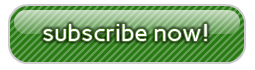
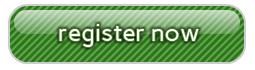
Feature #170 Multisite licensing

Changed region(s): [[0.1373, 0.2857, 0.8235, 0.7143]]

diff --git a/resources/javascripts/wl_register_widget.js b/resources/javascripts/wl_register_widget.js
@@ -180,11 +180,11 @@ WELOCALLY_RegisterWidget.prototype.getSubscriberInfo = function(siteKey, siteHom
 		  success : function(data, textStatus, jqXHR) {
 			 
 			  if(data != null && data.errors != null) {
-				_instance.setStatus(_instance._ajaxStatus,'Issue with publisher info. '+WELOCALLY.util.getErrorString(data.errors), 'wl_error', false);
+				_instance.setStatus(_instance._ajaxStatus,'<strong>Issue with publisher info.</strong> '+WELOCALLY.util.getErrorString(data.errors), 'wl_error', false);
 				_instance.setFormFields("DENIED", siteKey, siteHome, siteName, siteEmail, siteToken);
 				
 			  } else {	
-				  _instance.setStatus(_instance._ajaxStatus, JSON.stringify(data), 'wl_message', false);  
+				  _instance.setStatus(_instance._ajaxStatus, '<span class="wl_subscription_status">'+data.subscriptionStatus+'</span>', 'wl_message', false);  
 				  _instance.setFormFields(data.subscriptionStatus, data.site.key, siteHome, siteName, siteEmail, siteToken);
 				
 			  }	
@@ -207,6 +207,8 @@ WELOCALLY_RegisterWidget.prototype.setFormFields =
 				'<span class="options-text">We have assigned a key to you, but to use or basic service you must register. Go ahead, its easy. Just press the <strong>Register Now</strong> button and '+
 				'we will send you your secret token.</span><div style="clear:both"></div>');
 			jQuery(_instance._formArea).find('#wl_register_submit_action').html('Register Now');
+			jQuery(_instance._formArea).find('#wl_register_token_area').hide();
+			_instance.showFields();
 		} else if (status == 'REGISTERED') {
 			jQuery("#wl_register_status_area").html('<img width="75" hieght="75" style="float: left; margin-right:5px" class="align-right" src="'+_instance._cfg.imagePath+'/token1.png" alt="" title=""/>'+
 			'<span class="options-text">Great you are almost there! Now look the your inbox for the email address you gave us, and there should be an email with '+
@@ -214,6 +216,7 @@ WELOCALLY_RegisterWidget.prototype.setFormFields =
 			'<div style="clear:both"></div>');
 			jQuery(_instance._formArea).find('#wl_register_submit_action').html('Save Token');
 			jQuery(_instance._formArea).find('#wl_register_token_area').show();
+			_instance.showFields();
 		} else if (status == 'SUBSCRIBED') {
 			jQuery("#wl_register_status_area").html('<img width="75" hieght="75" style="float: left; margin-right:5px" class="align-right" '+
 					'src="'+_instance._cfg.imagePath+'/subscribed1.png" alt="" title=""/>'+
@@ -223,6 +226,7 @@ WELOCALLY_RegisterWidget.prototype.setFormFields =
 			'<div style="clear:both"></div>');
 			jQuery(_instance._formArea).find('#wl_register_submit_action').html('Refresh Registration');
 			jQuery(_instance._formArea).find('#wl_register_token_area').show();
+			_instance.showFields();
 		} else if (status == 'DENIED') {
 			jQuery("#wl_register_status_area").html('<img width="75" hieght="75" style="float: left; margin-right:5px" class="align-right" '+
 					'src="'+_instance._cfg.imagePath+'/denied1.png" alt="" title=""/>'+
@@ -320,11 +324,11 @@ WELOCALLY_RegisterWidget.prototype.registrationHandler = function(event, ui) {
 		  },		  
 		  success : function(data, textStatus, jqXHR) {
 			if(data != null && data.errors != null) {
-				_instance.setStatus(_instance._ajaxStatus,'Could register publisher. '+WELOCALLY.util.getErrorString(data.errors), 'wl_error', false);
+				_instance.setStatus(_instance._ajaxStatus,'<strong>Could register publisher.</strong> '+WELOCALLY.util.getErrorString(data.errors), 'wl_error', false);
 				var origData = _instance.getSiteInfo();
 				_instance.setFormFields("DENIED", origData.siteKey, origData.siteHome, origData.siteName, origData.siteEmail, origData.siteToken);
 			} else {
-				_instance.setStatus(_instance._ajaxStatus, JSON.stringify(data), 'wl_message', false);
+				_instance.setStatus(_instance._ajaxStatus, '<span class="wl_subscription_status">'+data.subscriptionStatus+'</span>', 'wl_message', false);
 				_instance.setFormFields(data.subscriptionStatus, data.site.key, data.site.home, data.site.name, data.site.email, data.site.token);
 				_instance._cfg.registeredCallback(data.site);				
 			}

diff --git a/resources/javascripts/wl_addplace_widget.js b/resources/javascripts/wl_addplace_widget.js
@@ -181,7 +181,7 @@ WELOCALLY_AddPlaceWidget.prototype.createForm = function() {
 	var formArea = jQuery('<div></div>');
 	
 	jQuery(formArea)
-	.append('<div class="wl_field_title">Enter the real name of the place, such as "The Red Snapper Grill"</div>');
+	.append('<div class="wl_field_description">Enter the real name of the place, such as "The Red Snapper Grill"</div>');
 	
 	this.placeNameField = jQuery('<div class="wl_field_area"><input type="text" name="placeName" class="wl_widget_field wl_addplace_name"/></div>');
 	jQuery(this.placeNameField).find('input').bind('change' , {form: formArea, _instance: this}, this.nameChangeHandler);  
@@ -190,7 +190,7 @@ WELOCALLY_AddPlaceWidget.prototype.createForm = function() {
 	
 	var locFieldArea = jQuery('<div class="wl_addplace_loc_field_area" style="display:none;"></div>');
 	jQuery(locFieldArea)
-	.append('<div class="wl_field_title">Enter the most exact address of the place, such as 1234 Mullberry Rd Oakland CA 94612</div>');
+	.append('<div class="wl_field_description">Enter the most exact address of the place, such as 1234 Mullberry Rd Oakland CA 94612</div>');
 	
 	this.locationField = jQuery('<div class="wl_field_area"><input type="text" name="placeLocation" class="wl_widget_field wl_addplace_location"/></div>');
 	jQuery(this.locationField).find('input').bind('change' , {form: formArea, _instance: this}, this.locationChangeHandler);  
@@ -205,7 +205,7 @@ WELOCALLY_AddPlaceWidget.prototype.addOptionalFieldsToForm = function(formArea) 
 	var _instance = this;
 	
 	jQuery(formArea)
-	.append('<div class="wl_field_title">Enter the phone number with areacode and country code, such as +1 510 555-1234</div>');
+	.append('<div class="wl_field_description">Enter the phone number with areacode and country code, such as +1 510 555-1234</div>');
 		
 	//phone
 	var phoneField = jQuery('<div class="wl_field_area"><input type="text" name="phoneField" class="wl_widget_field wl_addplace_phone"/></div>');
@@ -216,7 +216,7 @@ WELOCALLY_AddPlaceWidget.prototype.addOptionalFieldsToForm = function(formArea) 
 	jQuery(formArea).append(phoneField);
 	
 	jQuery(formArea)
-	.append('<div class="wl_field_title">Enter the website for the place if it exists. Include the http prefix, such as http://greatplace.com</div>');
+	.append('<div class="wl_field_description">Enter the website for the place if it exists. Include the http prefix, such as http://greatplace.com</div>');
 		
 	//website
 	var webField = jQuery('<div class="wl_field_area"><input type="text" name="webField" class="wl_widget_field wl_addplace_web"/></div>');

diff --git a/resources/javascripts/wl_placefinder_widget.js b/resources/javascripts/wl_placefinder_widget.js
@@ -73,7 +73,7 @@ function WELOCALLY_PlaceFinderWidget (cfg) {
 	    //location field
 	    this._locationField =
 			jQuery('<input type="text" name="location"/>');
-	    jQuery(wrapper).append('<div>Enter a location to search such as "New York NY". You can even provide a full address for more refined searches.</div>');
+	    jQuery(wrapper).append('<div class="wl_field_description">Enter a location to search such as "New York NY". You can even provide a full address for more refined searches.</div>');
 	    jQuery(this._locationField).attr('class','wl_widget_field wl_placefinder_search_field');
 	    jQuery(this._locationField).bind('change' , {instance: this}, this.locationFieldInputHandler);   
 	    
@@ -89,7 +89,7 @@ function WELOCALLY_PlaceFinderWidget (cfg) {
 		//search field
 	    this._searchField =
 			jQuery('<input type="text" name="search" id="wl_finder_search_field"/>');
-		jQuery(wrapper).append('<div>Enter what you are searching for, this can be a type of place like "Restaurant", what they sell like "Pizza", or the name of the place like "Seward Park".</div>');       
+		jQuery(wrapper).append('<div class="wl_field_description">Enter what you are searching for, this can be a type of place like "Restaurant", what they sell like "Pizza", or the name of the place like "Seward Park".</div>');       
 		jQuery(this._searchField).attr('class','wl_widget_field wl_placefinder_search_field');
 		jQuery(this._searchField).bind('change' , {instance: this}, this.searchHandler);  
 			

diff --git a/resources/stylesheets/wl_places_wp.css b/resources/stylesheets/wl_places_wp.css
@@ -134,7 +134,22 @@
 	margin-bottom: 10px;
 }
 
-label { font-size:1.2em; color: #595959; font-weight:bold; width:400px; margin-top:10px;  }
+.form-table form input {border:none;}
+.line-spacer-10 {
+	height: 10px;
+}
+
+	
+
+#wl_api_endpoint {
+	display: none;
+	width: 400px;
+}
+
+#api-endpoint-assigned {
+	width: 400px;
+}
+
 	
 .option-form-field { 
 	width: 95%; 
@@ -146,3 +161,5 @@ label { font-size:1.2em; color: #595959; font-weight:bold; width:400px; margin-t
 
 .wl_register_value { font-size:1.2em; color: #595959; font-weight:bold; font-family: monospace; height: 20px; background-color: #eeeeee; padding: 4px; margin-bottom: 10px;}
 .wl_register_field { font-size:1.2em; color: #595959; font-weight:bold; height: 25px; padding: 2px; }
+
+.wl_subscription_status { font-size:1.4em; color: #595959; font-weight:bold; width:400px; margin-top:10px; }

diff --git a/resources/stylesheets/wl_places.css b/resources/stylesheets/wl_places.css
@@ -29,6 +29,10 @@
    	padding: 4px; 
    	color: #9E2626;
 }
+.wl_error a{  
+   	color: #9E2626;
+}
+
 .wl_warning {  
 	text-align:center; 
 	background-color: #FFF3BF; 
@@ -125,6 +129,6 @@
 .wl_place_widget_script{display:none}
 
 .wl_field_title {font-size: 1.2em; font-weight: bold;}
-.wl_field_description {font-size: 0.8em; font-style: italic;}
+.wl_field_description {font-size: 1.0em; font-style: italic; color: #888888; }
 
 

diff --git a/resources/stylesheets/wl_places_multi.css b/resources/stylesheets/wl_places_multi.css
@@ -35,7 +35,8 @@
 #wl_places_mutli_selectable .ui-selected { background: #e2e2e2;  }
 #wl_places_mutli_selectable ol {  display: inline; }
 #wl_places_mutli_selectable li { 
-	margin-bottom: 3px; 
+	margin-right: 3px; 
+	text-align:left;
 	padding: 0.4em; 
 	font-size: 0.8em; 
 	border: 1px solid #aaaaaa; 

diff --git a/options/options-general.php b/options/options-general.php
@@ -1,5 +1,6 @@
 <?php
 global $wlPlaces;
+$options = $wlPlaces->getOptions();
 ?>
 <div class="wrap">
 <div class="icon32"><img src="<?php echo WP_PLUGIN_URL; ?>/welocally-places/resources/images/screen_icon.png" alt="" title="" height="32px" width="32px"/><br /></div>
@@ -8,17 +9,14 @@ global $wlPlaces;
 $menubar_include = WP_PLUGIN_DIR . '/' .$wlPlaces->pluginDir . '/options/options-infobar.php';
 include($menubar_include);
 ?>
+<?php if(empty($options['siteToken'])  ):?>
+<div class="wl_error fade"><p><strong>Please <a href="<?php echo get_bloginfo( 'wpurl' ).'/wp-admin/admin.php?page=welocally-places-subscribe' ?>">Register Now</a> To Activate Welocally Places</strong></p></div>
+<?php endif; ?>
+
 <?php
-// If options have been updated on screen, update the database
-
-
-if(!is_subscribed()) {
-	echo '<div class="error fade"><p><strong>' . __( 'Please Register To Activate Welocally Places' ) . "</strong></p></div>\n";
-} 
-
 if ( ( !empty( $_POST ) ) && ( check_admin_referer( 'welocally-places-general', 'welocally_places_general_nonce' ) ) ) { 
 	
-	$options = wl_get_options();
+	
 	
 	
 	$options[ 'default_search_addr' ] = $_POST[ 'welocally_default_search_addr' ];
@@ -67,33 +65,10 @@ $options = wl_set_general_defaults();
 
 ?>
 
-<?php if(is_subscribed()):?>
-
+<?php if(!empty($options['siteToken'])):?>
 <script type="text/javascript" charset="utf-8">
 var wl_options_imgfield = '';
 jQuery(document).ready(function() {
-	jQuery("#welocally_size_place_name").val('<?php echo $options[ 'size_place_name' ]; ?>');
-	jQuery("#welocally_size_place_address").val('<?php echo $options[ 'size_place_address' ]; ?>');
-	
-	
-	/*
-	jQuery("#slider").slider(
-		{ 
-			min: 0, 
-			max: 200,
-			stop: function(event, ui) {
-				var value = jQuery("#slider").slider( "option", "value" );
-				jQuery("#welocally_cat_map_infobox_text_scale").val(value);	
-				jQuery("#slider_amount").html(value+"%");
-							
-			} 
-		}
-	);
-	
-	jQuery("#slider").slider( "option", "value", <?php echo $options[ 'cat_map_infobox_text_scale' ]; ?> );
-	
-	*/
-	
 	window.send_to_editor = function(html) {
 	 imgurl = jQuery('img',html).attr('src');
 	 jQuery("#"+wl_options_imgfield).val(imgurl);

diff --git a/options/about.php b/options/about.php
@@ -1,5 +1,6 @@
 <?php
 global $wlPlaces;
+$options = $wlPlaces->getOptions();
 ?>
 <script type="text/javascript">
 jQuery(document).ready(function() {
@@ -16,36 +17,6 @@ jQuery(document).ready(function() {
 
 </script>
 
-<style type="text/css">
-.form-table form input {border:none;}
-.line-spacer-10 {
-	height: 10px;
-}
-
-	
-
-#wl_api_endpoint {
-	display: none;
-	width: 400px;
-}
-
-#api-endpoint-assigned {
-	width: 400px;
-}
-
-
-.assigned-field {
-	background: #DBDBDB;
-	font-size:1.2em;
-	font-weight:bold; 
-	color: #595959;
-	font-family: monospace;
-	width: 400px;
-	margin-bottom: 10px;
-}
-
-</style>
-
 <div class="wrap">
 
 <div class="icon32"><img src="<?php echo WP_PLUGIN_URL; ?>/welocally-places/resources/images/screen_icon.png" alt="" title="" height="32px" width="32px"/><br /></div>
@@ -54,6 +25,10 @@ jQuery(document).ready(function() {
 $menubar_include = WP_PLUGIN_DIR . '/' .$wlPlaces->pluginDir . '/options/options-infobar.php';
 include($menubar_include);
 ?>
+<?php if(empty($options['siteToken'])  ):?>
+<div class="wl_error fade"><p><strong>Please <a href="<?php echo get_bloginfo( 'wpurl' ).'/wp-admin/admin.php?page=welocally-places-subscribe' ?>">Register Now</a> To Activate Welocally Places</strong></p></div>
+<?php endif; ?>
+
 <?php
 // If options have been updated on screen, update the database
 if ( ( !empty( $_POST ) ) && ( check_admin_referer( 'welocally-places-about', 'welocally_places_about_nonce' ) ) ) { 
@@ -67,15 +42,6 @@ if ( ( !empty( $_POST ) ) && ( check_admin_referer( 'welocally-places-about', 'w
 
 	echo '<div class="updated fade"><p><strong>' . __( 'Settings Saved.' ) . "</strong></p></div>\n";
 }
-
-// Get options
-$options = wl_set_general_defaults();
-
-//display error if not subscribed
-if(!is_subscribed()) {
-	echo '<div class="error fade"><p><strong>' . __( 'Please Register To Activate Welocally Places' ) . "</strong></p></div>\n";
-} 
-
 ?>
 <form method="post" action="<?php echo get_bloginfo( 'wpurl' ).'/wp-admin/admin.php?page=welocally-places-about' ?>">
 <fieldset>

diff --git a/options/places-manager.php b/options/places-manager.php
@@ -32,19 +32,18 @@ if ( ( !empty( $_POST ) ) && ( check_admin_referer( 'welocally-places-manager', 
 	echo '<div class="updated fade"><p><strong>' . __( 'Places Removed.' ) . "</strong></p></div>\n";
 }
 
-$t = $wlPlaces->getPlaces($wlPlaces->placeCategory(),500, false);
-
-//display error if not subscribed
-if(!is_subscribed()) {
-	echo '<div class="error fade"><p><strong>' . __( 'Please Register To Activate Welocally Places' ) . "</strong></p></div>\n";
-} 
-
 ?>
+
+<?php if(empty($options['siteToken'])  ):?>
+<div class="wl_error fade"><p><strong>Please <a href="<?php echo get_bloginfo( 'wpurl' ).'/wp-admin/admin.php?page=welocally-places-subscribe' ?>">Register Now</a> To Activate Welocally Places</strong></p></div>
+
+<?php else: ?>
 
 <form method="post" action="<?php echo get_bloginfo( 'wpurl' ).'/wp-admin/admin.php?page=welocally-places-manager' ?>">
 <span class="wl_options_heading"><?php _e( 'Post Places: '.count($t->places) ); ?></span>
 <p/>
 <?php
+$t = $wlPlaces->getPlaces($wlPlaces->placeCategory(),500, false);
 foreach ($t->places as $place) :
 ?>
 
@@ -88,6 +87,6 @@ else:
 <?php
 endif;
 ?>
-
+<?php endif; ?>
 </form>
 </div> 

diff --git a/welocally-places.php b/welocally-places.php
@@ -60,7 +60,7 @@ function welocally_getkey() {
 }
 
 function welocally_register() {
-	syslog(LOG_WARNING, 'welocally_register');
+	syslog(LOG_WARNING, print_r($_POST,true));
 	
 	global $wlPlaces;
 	$options = $wlPlaces->getOptions();
@@ -68,8 +68,12 @@ function welocally_register() {
 	syslog(LOG_WARNING, print_r($_POST,true));
 	if(isset($_POST["key"])){
 		$options["siteKey"] = $_POST["key"];
-	}
-	if(isset($_POST["token"])){
+	} 
+	
+	if(empty($_POST["token"])  || !isset($_POST["token"]) || $_POST["token"]==null || $_POST["token"]=='null' )  {
+		syslog(LOG_WARNING, 'unsetting token');
+		unset($options['siteToken']);
+	} else {
 		$options["siteToken"] = $_POST["token"];
 	}
 	

diff --git a/views/addplace-meta-box.php b/views/addplace-meta-box.php
@@ -7,7 +7,13 @@ if(class_exists('WelocallyPlacesCustomize' ) && isset($options[ 'map_default_mar
 	$marker_image_path = $options[ 'map_default_marker' ];
 }
 
+
 ?>
+
+<?php if(empty($options['siteToken'])  ):?>
+<div class="wl_error fade"><p><strong>Please <a href="<?php echo get_bloginfo( 'wpurl' ).'/wp-admin/admin.php?page=welocally-places-subscribe' ?>">Register Now</a> To Activate Welocally Places</strong></p></div>
+
+<?php else: ?>
 <body>
 	<div>
 		<div id="wl-addplace" class="input-section action" style="display:inline-block" >
@@ -25,3 +31,4 @@ var addPlaceWidget = new WELOCALLY_AddPlaceWidget(cfg).init();
 		</div>		
 	</div>
 </body>
+<?php endif; ?>

diff --git a/views/finder-meta-box.php b/views/finder-meta-box.php
@@ -22,6 +22,10 @@ if(isset($options[ 'api_endpoint' ]) && $options[ 'api_endpoint' ] !=''){
 ?>
 
 
+<?php if(empty($options['siteToken'])  ):?>
+<div class="wl_error fade"><p><strong>Please <a href="<?php echo get_bloginfo( 'wpurl' ).'/wp-admin/admin.php?page=welocally-places-subscribe' ?>">Register Now</a> To Activate Welocally Places</strong></p></div>
+
+<?php else: ?>
 <script type="text/javascript">
 jQuery(document).ready(function(jQuery) {	
 
@@ -63,3 +67,4 @@ jQuery(document).ready(function(jQuery) {
 		</div>		
 	</div>
 </body>
+<?php endif; ?>
